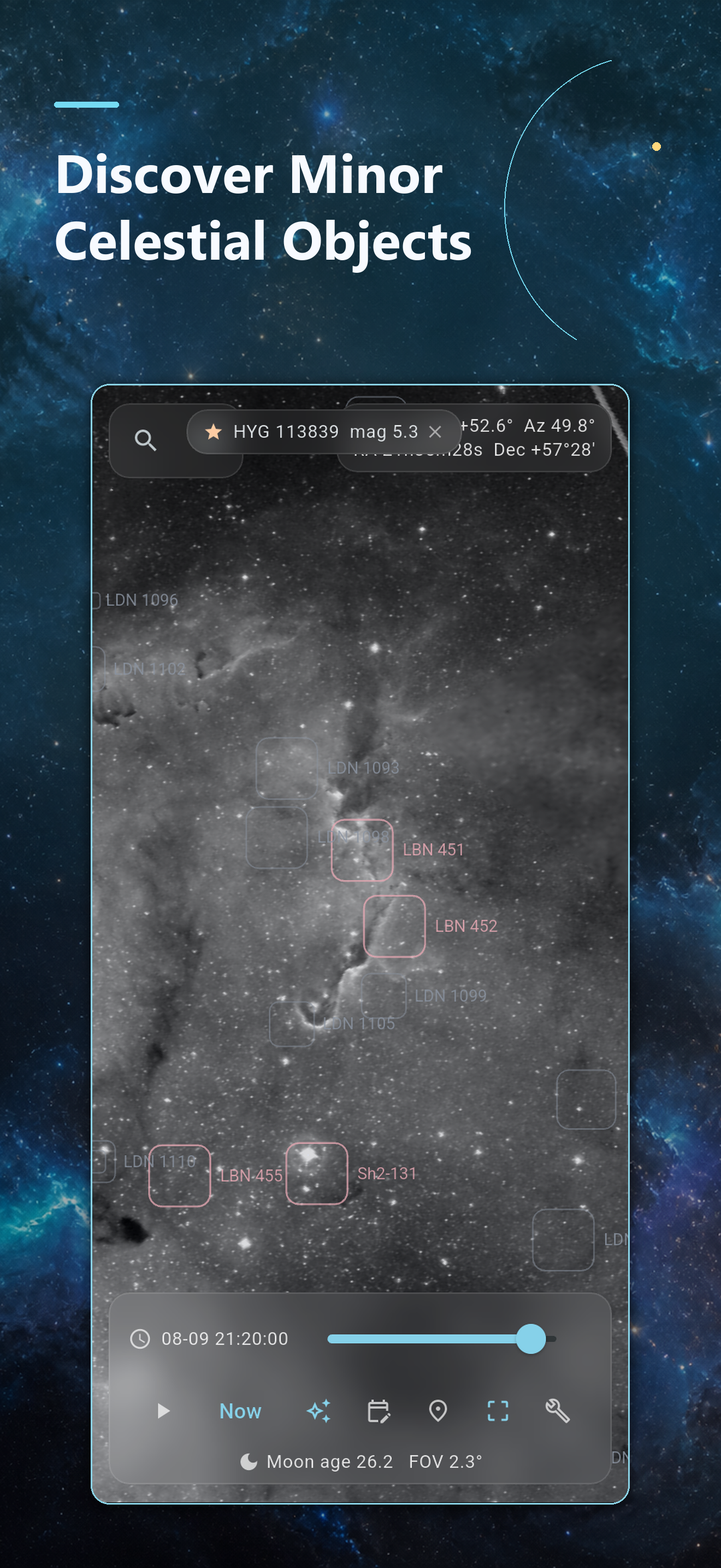
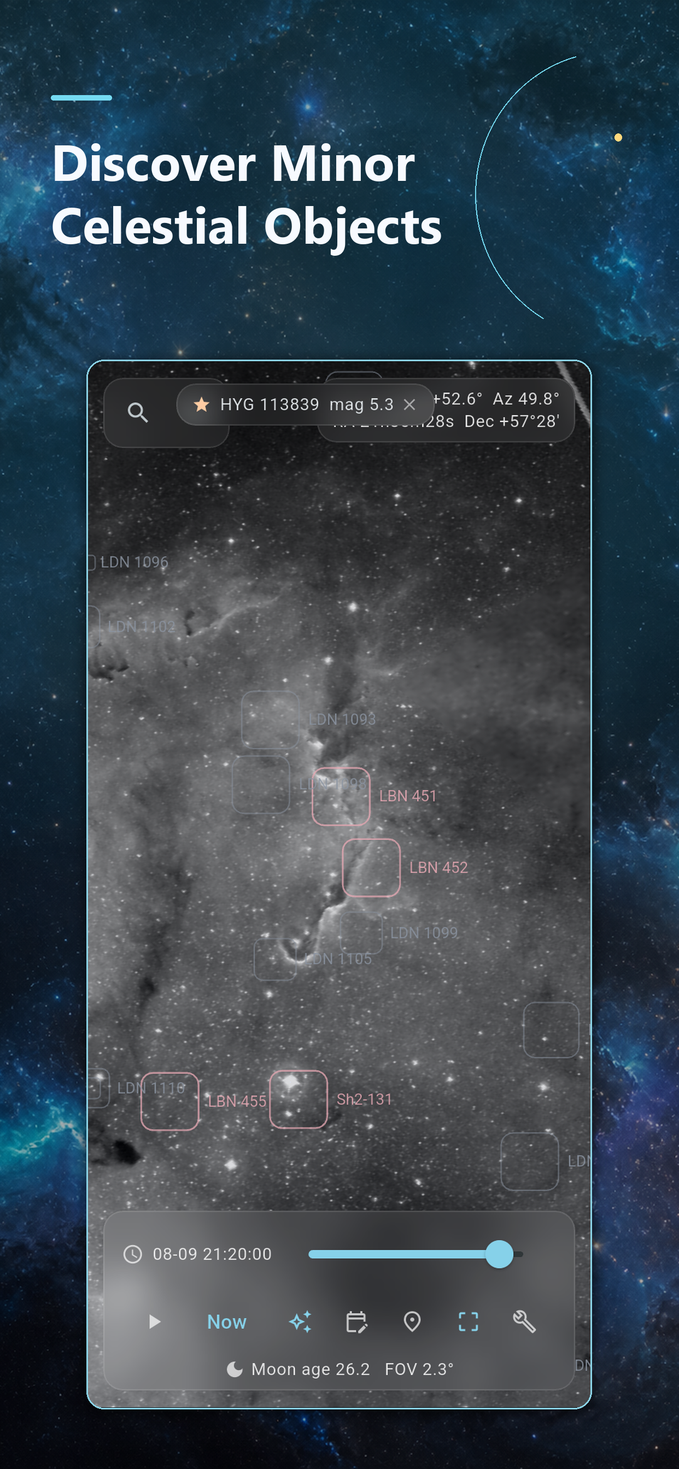
Resize iOS phone store screenshots

diff --git a/store-assets/build_store_screenshots.py b/store-assets/build_store_screenshots.py
@@ -18,7 +18,7 @@ CAPTIONS = {
 
 # Current representative portrait upload sizes.
 TARGETS = {
-    "iOS/phone": (1320, 2868),
+    "iOS/phone": (1242, 2688),
     "iOS/tablet": (2064, 2752),
     "android/phone": (1080, 1920),
 }
